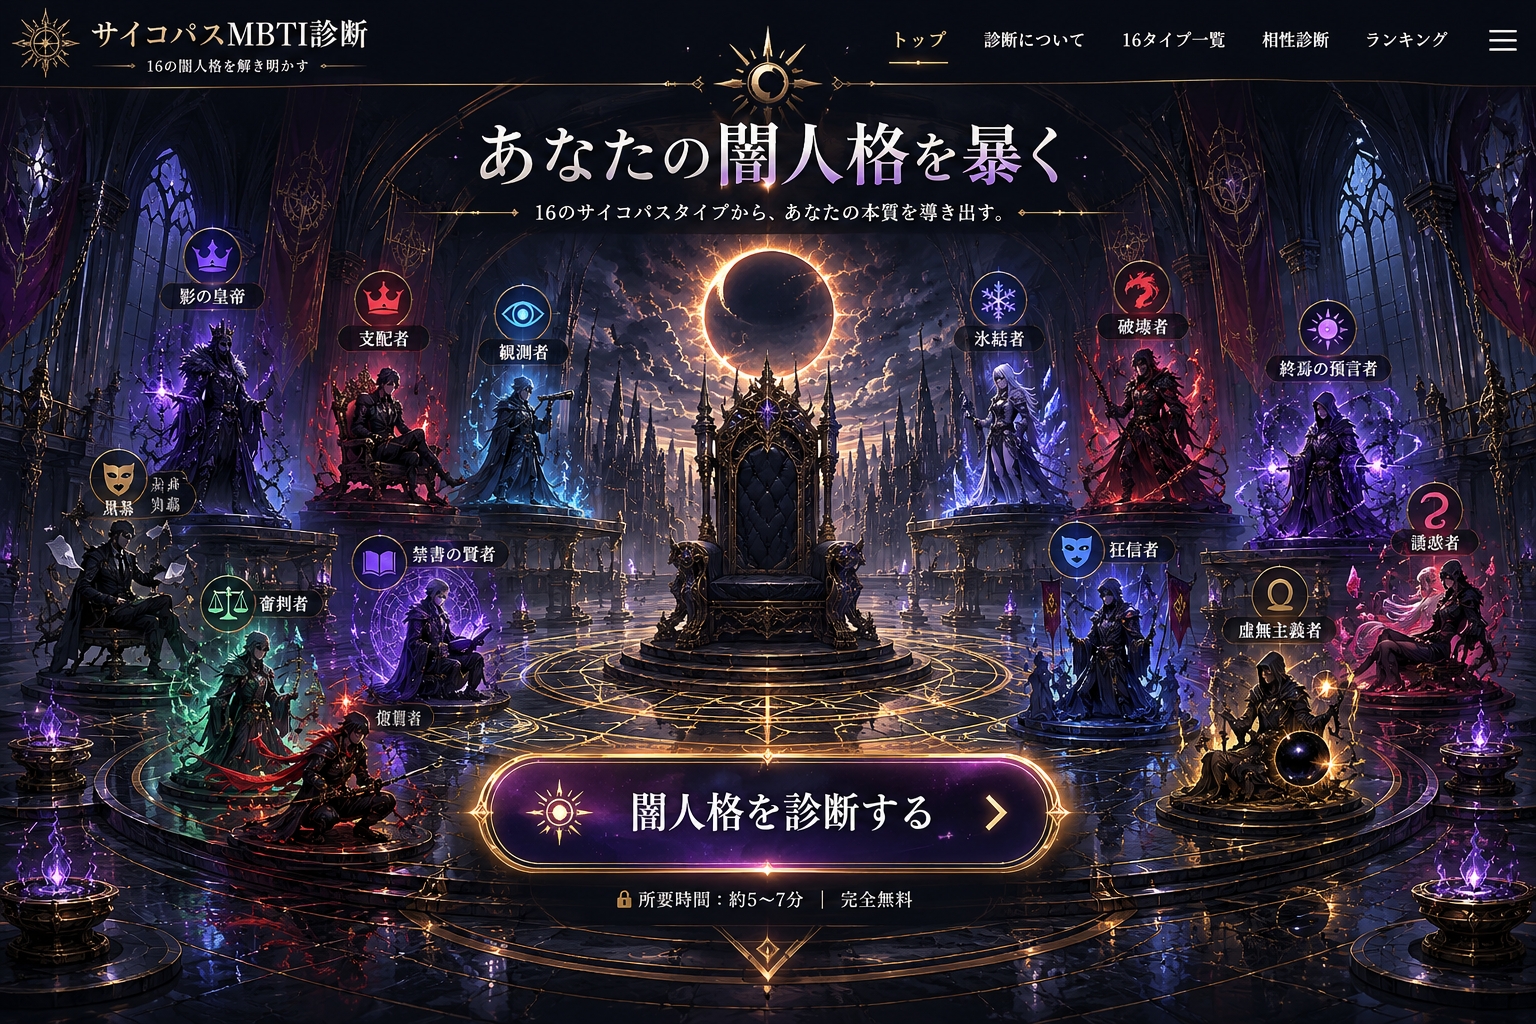
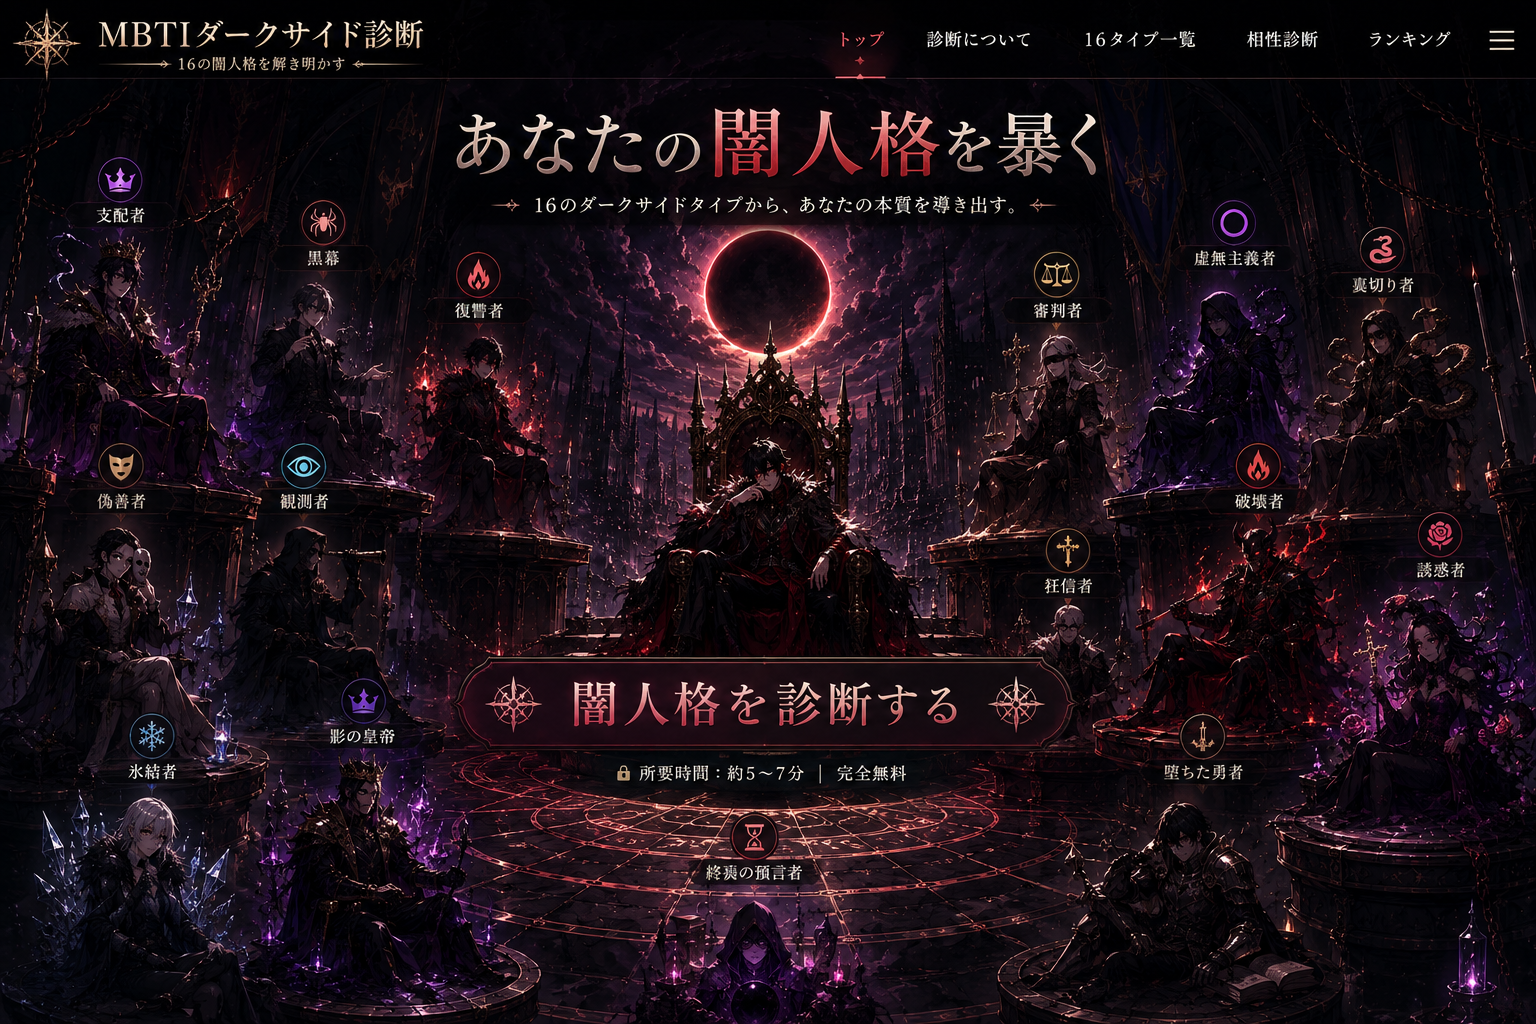
update

diff --git a/components/Disclaimer.tsx b/components/Disclaimer.tsx
@@ -5,9 +5,10 @@ export function Disclaimer({ className = "" }: { className?: string }) {
       className={`text-xs leading-relaxed text-violet-200/50 ${className}`}
     >
       ※ 本診断はエンターテインメントを目的とした非科学的な占い・診断です。
-      医学的・心理学的な診断ではなく、結果があなたの人格や精神状態を判定・断定するものではありません。
-      「サイコパス」という語は世界観の演出として用いており、特定の疾患や人物を指すものではありません。
-      結果はあくまで創作上のキャラクター設定としてお楽しみください。
+      実際の精神医学や心理学におけるサイコパス判定ではありません。
+      MBTIの性格傾向をベースに、誰もが持つ「影の部分」「極端化した価値観」「ダークサイド」を
+      エンターテインメントとして表現した診断です。
+      結果があなたの人格や精神状態を判定・断定するものではなく、あくまで創作上のキャラクター設定としてお楽しみください。
     </p>
   );
 }

diff --git a/app/page.tsx b/app/page.tsx
@@ -21,10 +21,10 @@ export default function HomePage() {
           priority
           className="w-full rounded-2xl border border-gold/30 shadow-arcane"
         />
-        {/* 画像内「闇人格を診断する」ボタンに重ねた透明リンク */}
+        {/* 画像内「ダークサイドを診断する」ボタンに重ねた透明リンク */}
         <Link
           href="/quiz"
-          aria-label="闇人格を診断する"
+          aria-label="ダークサイドを診断する"
           className="absolute left-[31%] top-[74%] h-[13%] w-[38%]"
         />
       </div>
@@ -40,7 +40,7 @@ export default function HomePage() {
       <p className="mt-6 max-w-xl text-sm leading-relaxed text-violet-200/70">
         古城の最奥、封じられた禁書庫。
         頁をめくる者の心の奥を、20の問いが暴いていく――。
-        あなたはどの闇を宿す者なのか。16のサイコパスタイプから、その正体を診断します。
+        あなたはどの闇を宿す者なのか。16のダークサイドタイプから、その正体を診断します。
       </p>
 
       {/* CTA */}

diff --git a/lib/site.ts b/lib/site.ts
@@ -1,9 +1,9 @@
 /** サイト全体で使う定数。デプロイ先に合わせて URL を変更する。 */
 export const site = {
-  name: "サイコパスMBTI診断",
+  name: "MBTIダークサイド診断",
   tagline: "禁書庫に眠る、あなたの16の闇",
   description:
-    "20問の問いに答えると、あなたの内に潜むサイコパスMBTIタイプを暴き出す、ダークファンタジー風エンタメ診断。",
+    "20問の問いに答えると、あなたの内に潜むダークサイドタイプを暴き出す、ダークファンタジー風エンタメ診断。",
   // Vercelデプロイ後、本番URLに置き換えるとシェアOGなどに利用できる。
   url: "https://example.com",
 };

diff --git a/components/ShareButton.tsx b/components/ShareButton.tsx
@@ -22,7 +22,7 @@ export function ShareButton({
 }) {
   const [copied, setCopied] = useState(false);
 
-  const shareText = `私のサイコパスMBTIは「${emoji} ${title}（${mbti}）」でした。\nあなたの内なる闇は?\n\n#${siteName.replace(/\s/g, "")} #サイコパスMBTI診断`;
+  const shareText = `私のMBTIダークサイドは「${emoji} ${title}（${mbti}）」でした。\nあなたの内なる闇は?\n\n#${siteName.replace(/\s/g, "")} #MBTIダークサイド診断`;
 
   function openXIntent(url: string) {
     const intent = `https://twitter.com/intent/tweet?text=${encodeURIComponent(

diff --git a/lib/types.ts b/lib/types.ts
@@ -28,13 +28,13 @@ export interface Question {
   choices: [Choice, Choice];
 }
 
-/** サイコパスMBTIタイプ1件分の表示データ。 */
+/** MBTIダークサイドタイプ1件分の表示データ。 */
 export interface PsychoType {
   /** 対応する本来のMBTIコード。 */
   mbti: MbtiCode;
   /** プレースホルダー用の絵文字。 */
   emoji: string;
-  /** サイコパス称号（タイプ名）。 */
+  /** ダークサイド称号（タイプ名）。 */
   title: string;
   /** キャッチコピー。 */
   catch: string;

diff --git a/lib/diagnose.ts b/lib/diagnose.ts
@@ -37,7 +37,7 @@ export function diagnose(answers: (Pole | null)[]): MbtiCode {
   return code;
 }
 
-/** MBTIコードからサイコパスタイプを取得。未知のコードは INTJ にフォールバック。 */
+/** MBTIコードからダークサイドタイプを取得。未知のコードは INTJ にフォールバック。 */
 export function getPsychoType(code: MbtiCode) {
   return psychoTypes[code] ?? psychoTypes["INTJ"];
 }

diff --git a/data/types.ts b/data/types.ts
@@ -1,7 +1,7 @@
 import type { MbtiCode, PsychoType } from "@/lib/types";
 
 /**
- * 16タイプの「サイコパスMBTI」データ。
+ * 16タイプの「MBTIダークサイド」データ。
  * すべてエンタメ目的の創作設定。医学的・心理学的な診断ではない。
  * 画像は public/images/types/<mbti>.png を置けば自動で使われる（なければ絵文字表示）。
  */

diff --git a/README.md b/README.md
@@ -1,6 +1,6 @@
-# サイコパスMBTI診断
+# MBTIダークサイド診断
 
-禁書庫・古城・黒×紫×金のダークファンタジー世界観で、20問からあなたの「サイコパスMBTIタイプ」を暴き出すエンタメ診断サイト。
+禁書庫・古城・黒×紫×金のダークファンタジー世界観で、20問からあなたの「MBTIダークサイドタイプ」を暴き出すエンタメ診断サイト。
 
 > ⚠ 本サイトはエンターテインメント目的の非科学的な診断です。医学的・心理学的な診断ではありません。
 
